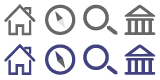
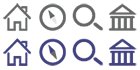
dbug

diff --git a/scss/main.scss b/scss/main.scss
@@ -9,7 +9,16 @@ html, body, nav, section, div {
 
 body {
   background-color: #fafafa; }
-
+.clearfix{
+  zoom:1
+}
+.clearfix:after{
+  content: ' ';
+  height: 0;
+  display: block;
+  visibility: hidden;
+  clear: both;
+}
 .index {
   margin: 0;
   width: 100%;
@@ -171,16 +180,16 @@ body {
   background: url("../img/demo-3.png") no-repeat; }
 
 .bottom-location a:nth-child(1) i {
-  background-position: -2.5px -2.5px; }
+  background-position: 0 0; }
 
 .bottom-location a:nth-child(2) i {
-  background-position: -42.5px -2.5px; }
+  background-position: -35px 0px; }
 
 .bottom-location a:nth-child(3) i {
-  background-position: -82.5px -2.5px; }
+  background-position: -70px 0px; }
 
 .bottom-location a:nth-child(4) i {
-  background-position: -122.5px -2.5px; }
+  background-position: -105px 0px; }
 
 /*侧边栏css*/
 
@@ -215,22 +224,27 @@ body {
     font-size: 13px;
 }
 .sidebar-list li{
-    display:flex;
+    //display:flex;
+    height: 50px;
     width: 100%;
-    margin: 15px 10px 15px 0;
-}
-.sidebar-list span{
-    line-height: 30px;
+    display: block;
+    background-color: inherit;
 }
 .sidebar-list i{
-    margin-left: 16px;
-    margin-right: 15px;
-    display: inline-block;
+    margin: 10px 15px;
     width: 30px;
     height: 30px;
-    line-height: 50px;
     background: url("../img/icon.png") no-repeat -183px -461px;
+    display: inline-block;
+    vertical-align: top;
 }
+.sidebar-list span{
+  height: 50px;
+  line-height: 50px;
+  display: inline-block;
+  vertical-align: top;
+}
+
 .sidebar-list a:nth-child(2) i{
     background-position: -286px -461px;
 }
@@ -251,7 +265,6 @@ body {
 }
 .sidebar-list a:nth-child(6) li{
     border-top: 1px solid #5e5e5e;
-    padding-top: 10px;
 }
 .sidebar-list a{
     font-size: 15px;
@@ -259,6 +272,7 @@ body {
     list-style: none;
     width: 100%;
     color: #0f0f0f;
+    //display: block;
 }
 
 

diff --git a/css/main.css b/css/main.css
@@ -10,6 +10,16 @@ html, body, nav, section, div {
 body {
   background-color: #fafafa; }
 
+.clearfix {
+  zoom: 1; }
+
+.clearfix:after {
+  content: ' ';
+  height: 0;
+  display: block;
+  visibility: hidden;
+  clear: both; }
+
 .index {
   margin: 0;
   width: 100%;
@@ -169,16 +179,16 @@ body {
   background: url("../img/demo-3.png") no-repeat; }
 
 .bottom-location a:nth-child(1) i {
-  background-position: -2.5px -2.5px; }
+  background-position: 0 0; }
 
 .bottom-location a:nth-child(2) i {
-  background-position: -42.5px -2.5px; }
+  background-position: -35px 0px; }
 
 .bottom-location a:nth-child(3) i {
-  background-position: -82.5px -2.5px; }
+  background-position: -70px 0px; }
 
 .bottom-location a:nth-child(4) i {
-  background-position: -122.5px -2.5px; }
+  background-position: -105px 0px; }
 
 /*侧边栏css*/
 .slider {
@@ -211,21 +221,24 @@ body {
   font-size: 13px; }
 
 .sidebar-list li {
-  display: flex;
+  height: 50px;
   width: 100%;
-  margin: 15px 10px 15px 0; }
-
-.sidebar-list span {
-  line-height: 30px; }
+  display: block;
+  background-color: inherit; }
 
 .sidebar-list i {
-  margin-left: 16px;
-  margin-right: 15px;
-  display: inline-block;
+  margin: 10px 15px;
   width: 30px;
   height: 30px;
+  background: url("../img/icon.png") no-repeat -183px -461px;
+  display: inline-block;
+  vertical-align: top; }
+
+.sidebar-list span {
+  height: 50px;
   line-height: 50px;
-  background: url("../img/icon.png") no-repeat -183px -461px; }
+  display: inline-block;
+  vertical-align: top; }
 
 .sidebar-list a:nth-child(2) i {
   background-position: -286px -461px; }
@@ -246,8 +259,7 @@ body {
   background-position: -109px -578px; }
 
 .sidebar-list a:nth-child(6) li {
-  border-top: 1px solid #5e5e5e;
-  padding-top: 10px; }
+  border-top: 1px solid #5e5e5e; }
 
 .sidebar-list a {
   font-size: 15px;

diff --git a/css/Particulars.css b/css/Particulars.css
@@ -11,6 +11,7 @@ html{
 .Particulars{
 	width: 100%;
 	background-color: #fff;
+	margin-bottom: 60px;
 }
 .Particulars img{
 	width: 100%;
